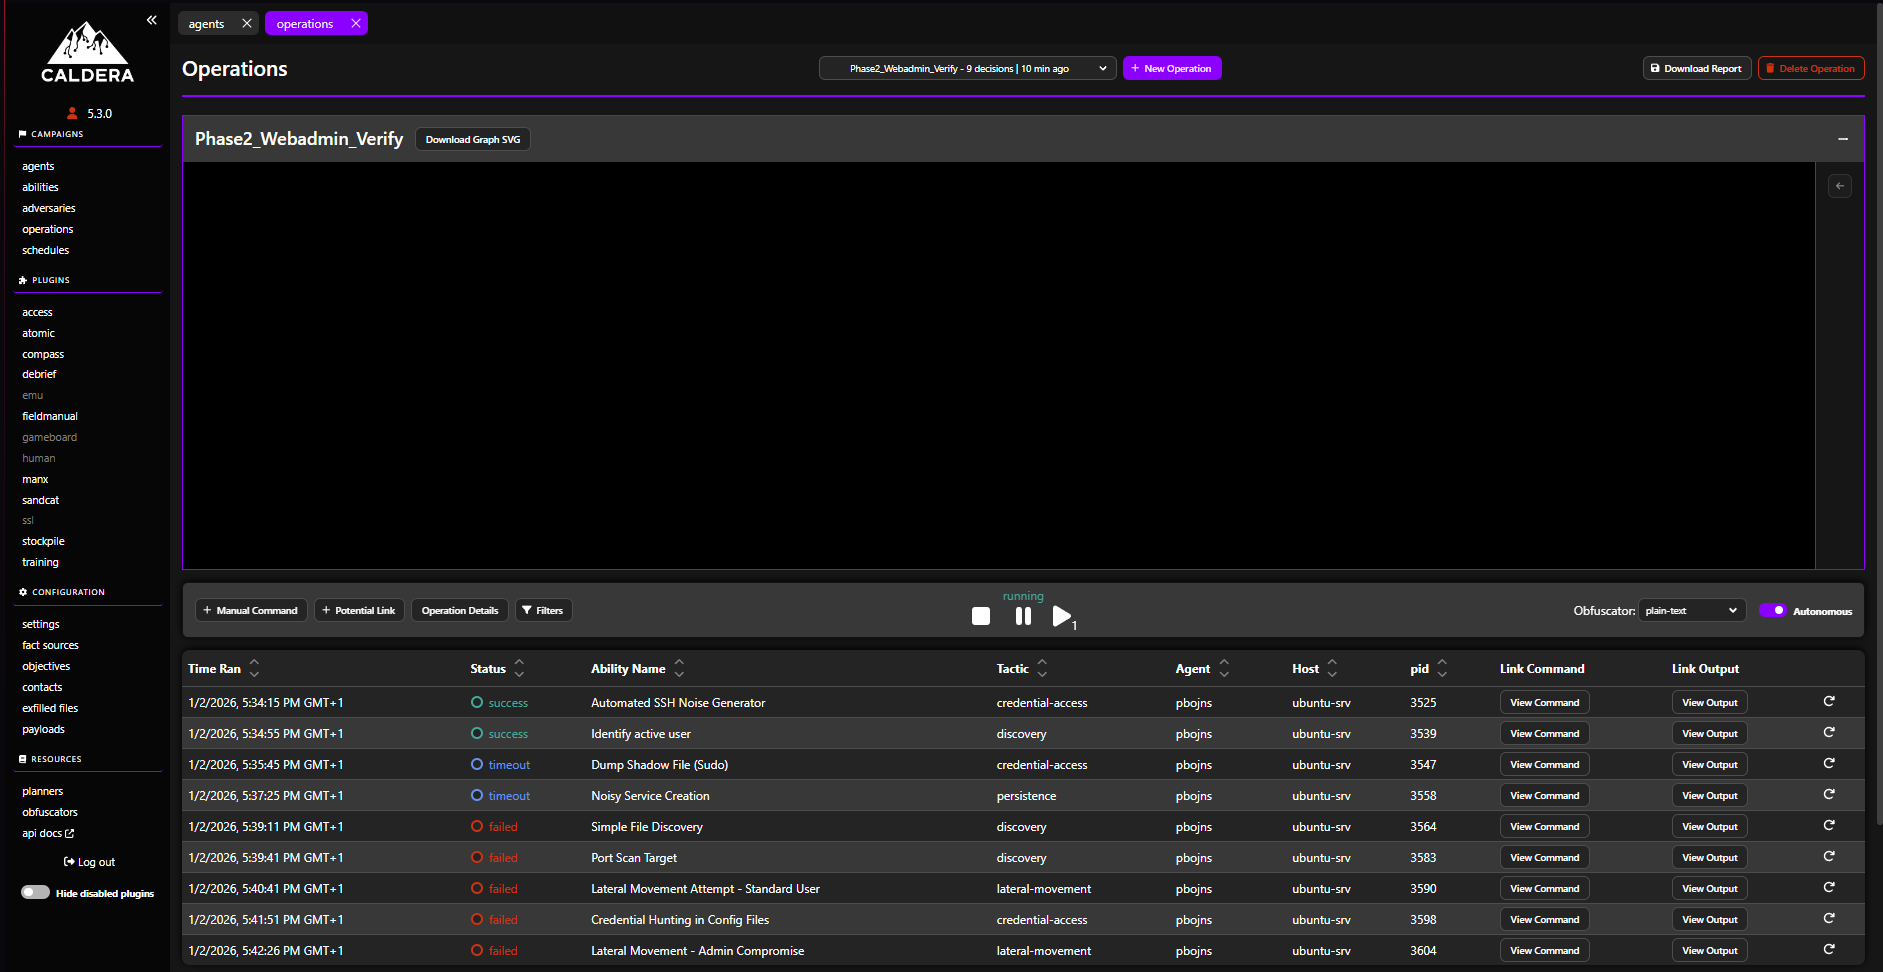
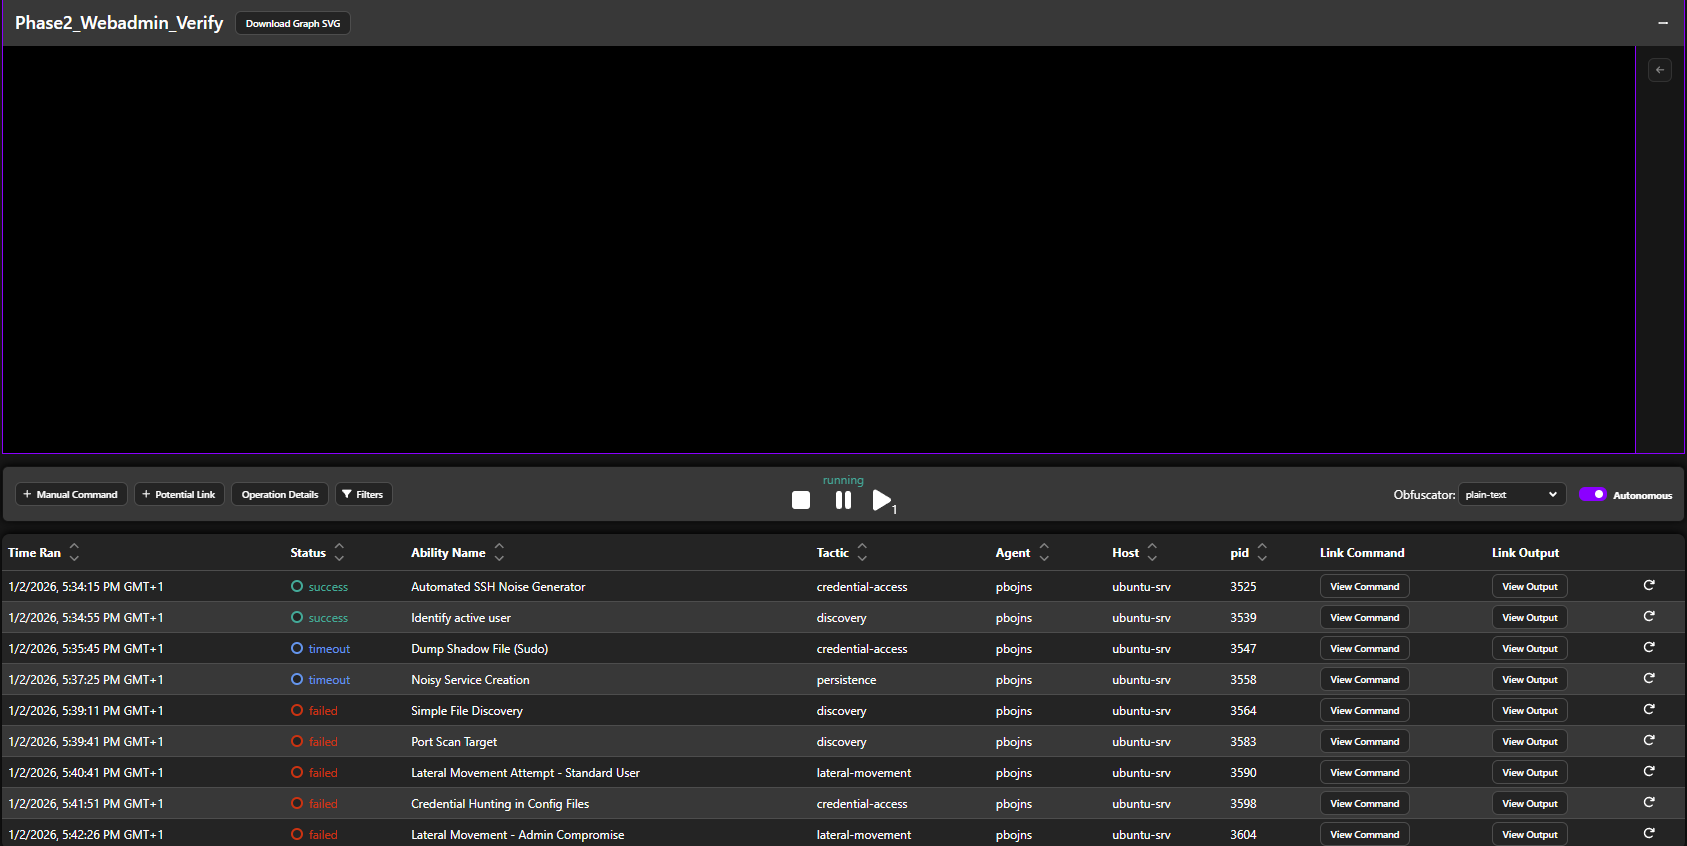
red_team: Edit images Cutted images for better visibility
Changelog: changed

Changed region(s): [[0.0, 0.0, 1.0, 1.0], [0.9555, 0.8913, 1.0, 0.9835], [0.1849, 0.9835, 0.2158, 1.0]]

diff --git a/implementation/src/red-team-engineer/red-team-attack-plan-phase1.md b/implementation/src/red-team-engineer/red-team-attack-plan-phase1.md
@@ -83,7 +83,7 @@ The operation relies on a custom Fact Source to define target parameters dynamic
 
 > **Screenshot Reference:** Configuration of the Fact Source used to target the Windows machine.
 >
-> ![SIS Meta Config](./images/phase1/sis_meta_config.png)
+> ![SIS Meta Config](./images/phase1/phase1_sis_meta_config.png)
 
 ### 4.2. Custom Abilities Developed
 Standard CALDERA abilities were modified to fit the specific lab environment constraints (e.g., using `python3` scripts on Linux or `curl` on Windows).
@@ -100,7 +100,7 @@ Standard CALDERA abilities were modified to fit the specific lab environment con
 
 > **Screenshot Reference:** Configuration of the Python3 PsExec command in Caldera.
 >
-> ![Lateral Movement Ability](./images/phase1/ability_lateral_config.png)
+> ![Lateral Movement Ability](./images/phase1/phase1_ability_lateral_config.png)
 
 **B. Data Exfiltration**
 *   **Name:** `Custom Exfiltration (Generate & Steal)`
@@ -113,7 +113,7 @@ Standard CALDERA abilities were modified to fit the specific lab environment con
 
 > **Screenshot Reference:** Configuration of the native Curl command for exfiltration.
 >
-> ![Exfiltration Ability](./images/phase1/ability_exfil_config.png)
+> ![Exfiltration Ability](./images/phase1/phase1_ability_exfil_config.png)
 
 ### 4.3. Adversary Profile (`Project_Story_Mode`)
 All abilities were chained into a single profile to simulate a complete attack lifecycle. The baseline profile consists of 11 discrete steps designed to validate the kill chain without excessive noise.
@@ -130,7 +130,7 @@ All abilities were chained into a single profile to simulate a complete attack l
 
 > **Screenshot Reference:** The baseline adversary profile configuration (11 steps).
 >
-> ![Adversary Profile Baseline](./images/phase1/adversary_profile_baseline.png)
+> ![Adversary Profile Baseline](./images/phase1/phase1_adversary_profile_baseline.png)
 
 ---
 
@@ -180,10 +180,10 @@ The operation was executed automatically using the `Project_Story_Mode` profile.
 > **Evidence:**
 >
 > **1. Operation Timeline:** Green indicators confirm successful execution of the kill chain steps (11 abilities).
-> ![Operation Results](./images/phase1/operation_results_timeline.png)
+> ![Operation Results](./images/phase1/phase1_operation_results_timeline.png)
 >
 > **2. Active Agents:** Proof of successful Lateral Movement (Windows Agent `itlfxp` is active).
-> ![Active Agents](./images/phase1/active_agents_list.png)
+> ![Active Agents](./images/phase1/phase1_active_agents_list.png)
 
 ### 6.1. Detection Stress Test (Noise Generation for Wazuh)
 
@@ -200,13 +200,13 @@ These abilities were executed manually or appended to a secondary profile run to
 > **Screenshot Reference:**
 >
 > **1. Extended Adversary Profile:** The profile updated with noise-generating abilities (Total: 13 steps, showing "Dump Shadow" and "Noisy Service").
-> ![Extended Profile 13 Steps](./images/phase1/profile_extended_noise.png)
+> ![Extended Profile 13 Steps](./images/phase1/phase1_profile_extended_noise.png)
 >
 > **2. Noise Configuration:** Setup of the malicious service creation ability.
-> ![Wazuh Noise Config](./images/phase1/ability_wazuh_noise_config.png)
+> ![Wazuh Noise Config](./images/phase1/phase1_ability_wazuh_noise_config.png)
 >
 > **3. Manual Noise Execution:** Generating PAM authentication failures (`su` flooding) on Linux.
-> ![Manual Brute Force](./images/phase1/manual_pam_bruteforce.png)
+> ![Manual Brute Force](./images/phase1/phase1_manual_pam_bruteforce.png)
 
 ---
 
